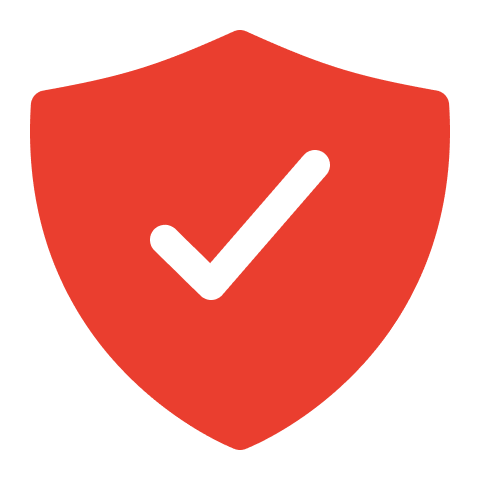
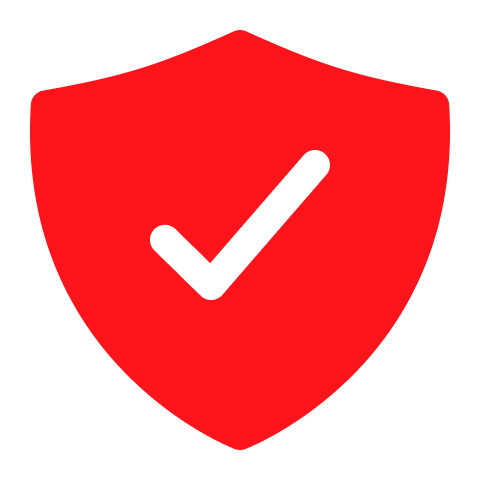
Add consent/age-verification screen (Screen 5) matching Figma
White screen with a red shield-check icon, mixed-scale stacked
headline ("pleasure starts with consent"), body copy, and a red
"next" CTA. Recolored the existing shield icon to the exact brand
red (#fd151b) used in this design. Routed at /join/verify, wired
after the Location screen's "Enable location" button.

diff --git a/src/screens/AgeVerifyScreen.css b/src/screens/AgeVerifyScreen.css
@@ -1,0 +1,92 @@
+.consent-icon {
+  position: absolute;
+  top: 75px;
+  left: 50%;
+  transform: translateX(-50%);
+  width: 160px;
+  height: 160px;
+}
+
+.consent-text {
+  position: absolute;
+  top: 271px;
+  left: 50%;
+  transform: translateX(-50%);
+  width: 344px;
+  display: flex;
+  flex-direction: column;
+  align-items: center;
+  text-align: center;
+}
+
+.consent-line {
+  margin: 0;
+  width: 100%;
+  font-family: 'Berthold Akzidenz Grotesk', sans-serif;
+  font-weight: 800;
+  color: #fd151b;
+}
+
+.consent-line--big {
+  font-size: 86px;
+  letter-spacing: -4.3px;
+  line-height: 0.85;
+}
+
+.consent-line--small {
+  font-size: 28px;
+  line-height: 0.92;
+  margin: 6px 0;
+}
+
+/* letter-spacing adds trailing space after the last glyph, which shifts the
+   visible text left of true center — nudge right by half the tracking value */
+.consent-line--starts {
+  letter-spacing: 19.32px;
+  transform: translateX(9.66px);
+}
+
+.consent-line--with {
+  letter-spacing: 20.44px;
+  transform: translateX(10.22px);
+}
+
+.consent-body {
+  position: absolute;
+  top: 561px;
+  left: 50%;
+  transform: translateX(-50%);
+  width: 339px;
+  margin: 0;
+  text-align: center;
+  font-family: 'Inter', sans-serif;
+  font-size: 14px;
+  line-height: 1.5;
+  color: #8f8f8f;
+}
+
+.consent-cta-wrap {
+  position: absolute;
+  top: 718px;
+  left: 0;
+  width: 100%;
+  display: flex;
+  justify-content: center;
+}
+
+.consent-cta {
+  width: 246px;
+  padding: 24px;
+  background: #fd151b;
+  color: #fff;
+  border: none;
+  font-family: 'Inter', sans-serif;
+  font-size: 16px;
+  font-weight: 500;
+  line-height: 1.1;
+  transition: transform 0.15s ease;
+}
+
+.consent-cta:active {
+  transform: scale(0.97);
+}

diff --git a/src/screens/AgeVerifyScreen.jsx b/src/screens/AgeVerifyScreen.jsx
@@ -1,0 +1,33 @@
+import StatusBar from '../components/StatusBar';
+import HomeIndicator from '../components/HomeIndicator';
+import shieldIcon from '../assets/icon-shield-check.png';
+import './Screens.css';
+import './AgeVerifyScreen.css';
+
+export default function AgeVerifyScreen() {
+  return (
+    <div className="screen screen--white">
+      <StatusBar variant="dark" />
+
+      <img src={shieldIcon} alt="" className="consent-icon" />
+
+      <div className="consent-text">
+        <p className="consent-line consent-line--big">pleasure</p>
+        <p className="consent-line consent-line--small consent-line--starts">starts</p>
+        <p className="consent-line consent-line--small consent-line--with">with</p>
+        <p className="consent-line consent-line--big">consent</p>
+      </div>
+
+      <p className="consent-body">
+        XEXUS is built around clear boundaries, mutual respect, and experiences that
+        feel good for everyone involved
+      </p>
+
+      <div className="consent-cta-wrap">
+        <button className="consent-cta">next</button>
+      </div>
+
+      <HomeIndicator variant="dark" />
+    </div>
+  );
+}

diff --git a/src/App.jsx b/src/App.jsx
@@ -2,6 +2,7 @@ import { BrowserRouter, Routes, Route, Navigate } from 'react-router-dom';
 import PhoneFrame from './components/PhoneFrame';
 import IntroScreen from './screens/IntroScreen';
 import LocationScreen from './screens/LocationScreen';
+import AgeVerifyScreen from './screens/AgeVerifyScreen';
 import './App.css';
 
 function App() {
@@ -17,6 +18,7 @@ function App() {
           <Routes>
             <Route path="/" element={<IntroScreen />} />
             <Route path="/join" element={<LocationScreen />} />
+            <Route path="/join/verify" element={<AgeVerifyScreen />} />
             <Route path="*" element={<Navigate to="/" replace />} />
           </Routes>
         </PhoneFrame>

diff --git a/src/screens/LocationScreen.jsx b/src/screens/LocationScreen.jsx
@@ -17,6 +17,7 @@ export default function LocationScreen() {
         () => {},
       );
     }
+    navigate("/join/verify");
   };
 
   return (
